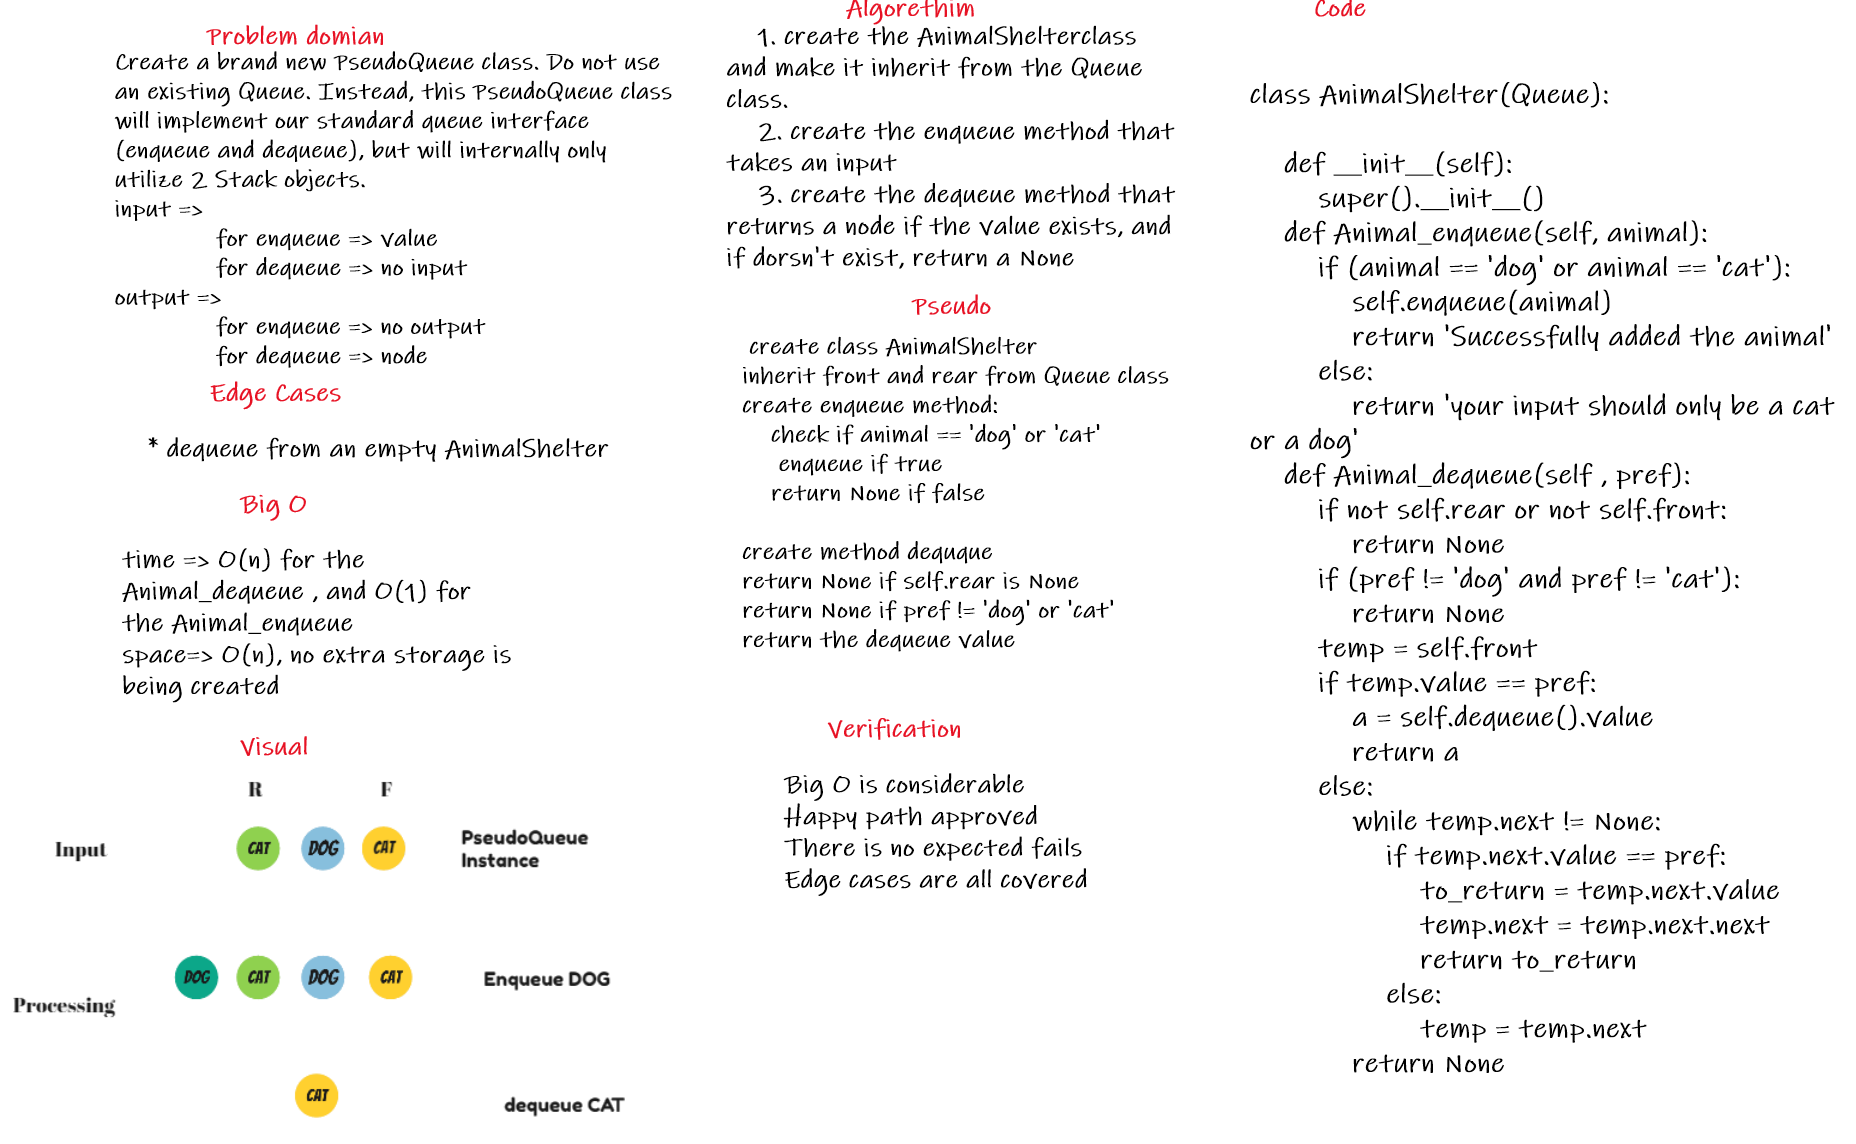
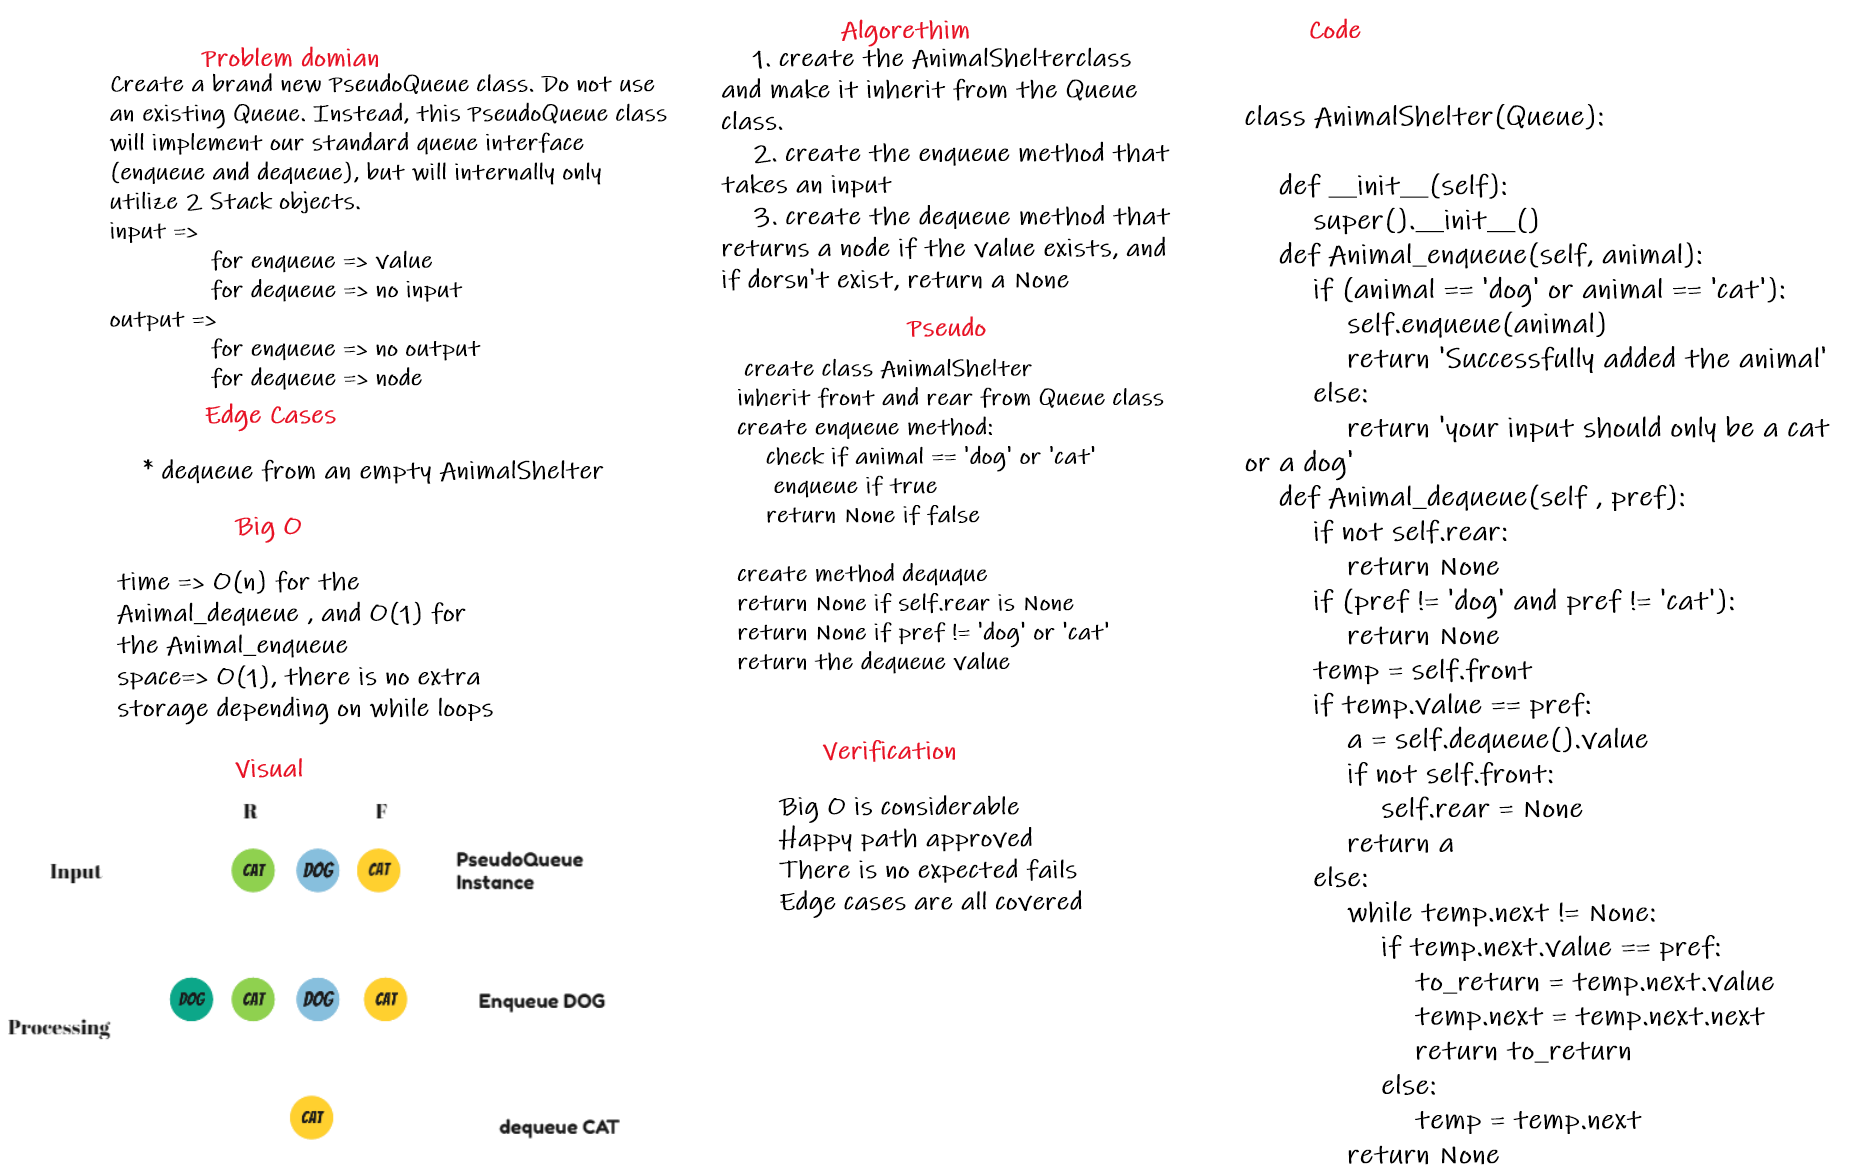
fixed the whiteboard

diff --git a/challenges/fifo_animal_shelter/README.md b/challenges/fifo_animal_shelter/README.md
@@ -30,13 +30,15 @@ for the enqueue method, i used this simple code that checks if the input is 'cat
 then i used a code for the dequeue method, first i checked if the Queue is empty or not, then checked if the prep is 'dog' or 'cat' or something else, then i dequeue the value if exists
 
 ```
-        if not self.rear or not self.front:
+        if not self.rear:
             return None
         if (pref != 'dog' and pref != 'cat'):
             return None
         temp = self.front
         if temp.value == pref:
             a = self.dequeue().value
+            if not self.front:
+                self.rear = None
             return a
         else:
             while temp.next != None:
